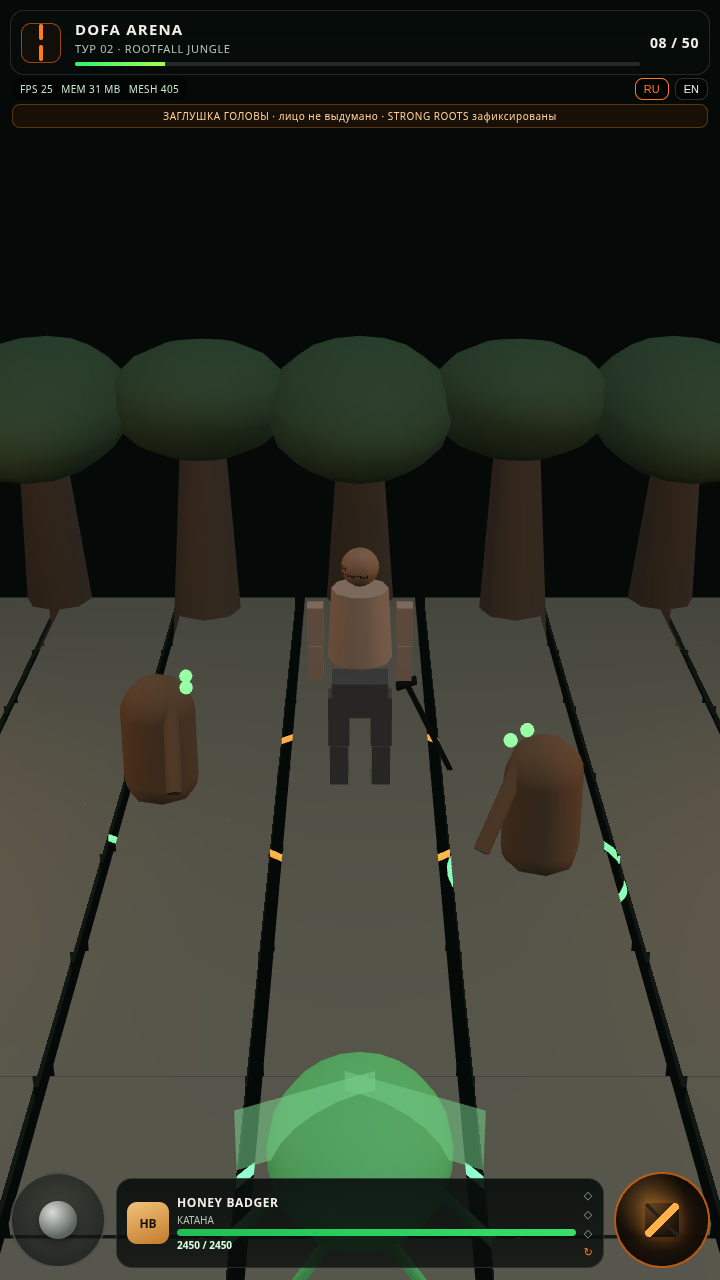
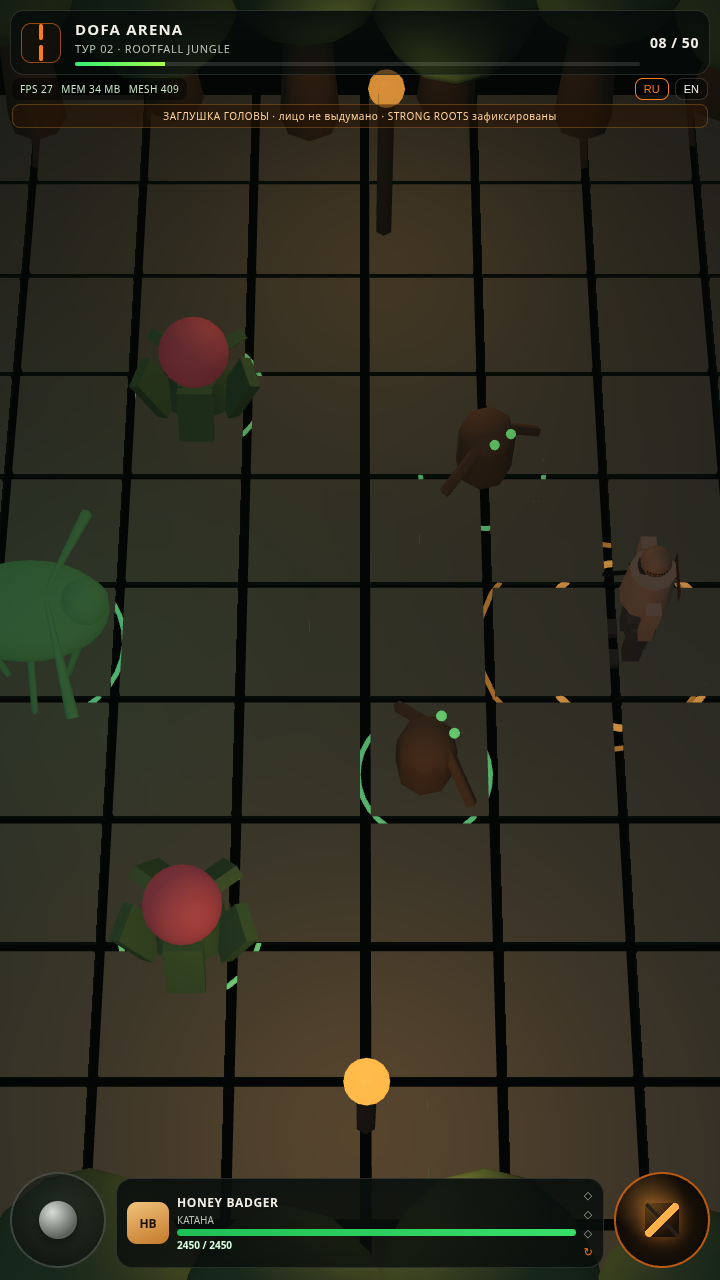
Archero top-down camera + denser Rootfall 08 combat framing
Steepen Babylon action camera to Archero/Unity top-down (hero lower third),
darken room mood, improve insect elite silhouette, and capture deterministic
orbit depth proofs. Document that Higgsfield/Gemini/Nano Banana APIs are not
available in this VM — quality-bar JPEG remains TARGET reference only.

diff --git a/arena3d/src/scene/enemies.js b/arena3d/src/scene/enemies.js
@@ -41,32 +41,51 @@ function createInsectElite(scene, shadow, position) {
     emissive: new Color3(0.05, 0.35, 0.08),
     emissiveIntensity: 0.6,
   });
-  const body = MeshBuilder.CreateSphere("insectBody", { diameter: 0.9, segments: 10 }, scene);
+  const body = MeshBuilder.CreateSphere("insectBody", { diameter: 1.05, segments: 12 }, scene);
   body.parent = root;
-  body.position.y = 0.7;
-  body.scaling = new Vector3(1, 0.7, 1.3);
+  body.position.y = 0.85;
+  body.scaling = new Vector3(0.95, 0.65, 1.45);
   body.material = bodyMat;
   body.castShadow = true;
   if (shadow) shadow.addShadowCaster(body);
 
+  const head = MeshBuilder.CreateSphere("insectHead", { diameter: 0.45, segments: 8 }, scene);
+  head.parent = root;
+  head.position = new Vector3(0, 1.05, 0.55);
+  head.material = bodyMat;
+
+  for (const side of [-1, 1]) {
+    const scythe = MeshBuilder.CreateCylinder(`scythe${side}`, {
+      height: 1.1,
+      diameterTop: 0.04,
+      diameterBottom: 0.12,
+      tessellation: 6,
+    }, scene);
+    scythe.parent = root;
+    scythe.position = new Vector3(side * 0.55, 1.0, 0.35);
+    scythe.rotation.z = side * 1.1;
+    scythe.rotation.x = -0.5;
+    scythe.material = bodyMat;
+  }
+
   for (let i = 0; i < 6; i += 1) {
     const leg = MeshBuilder.CreateCylinder(`insectLeg${i}`, {
-      height: 0.7,
-      diameter: 0.06,
+      height: 0.85,
+      diameter: 0.07,
       tessellation: 5,
     }, scene);
     leg.parent = root;
     const ang = (i / 6) * Math.PI * 2;
-    leg.position = new Vector3(Math.cos(ang) * 0.45, 0.35, Math.sin(ang) * 0.45);
-    leg.rotation.z = Math.cos(ang) * 0.7;
-    leg.rotation.x = Math.sin(ang) * 0.4;
+    leg.position = new Vector3(Math.cos(ang) * 0.5, 0.4, Math.sin(ang) * 0.45);
+    leg.rotation.z = Math.cos(ang) * 0.75;
+    leg.rotation.x = Math.sin(ang) * 0.45;
     leg.material = bodyMat;
   }
 
   for (const side of [-1, 1]) {
-    const wing = MeshBuilder.CreatePlane(`wing${side}`, { width: 0.7, height: 0.35 }, scene);
+    const wing = MeshBuilder.CreatePlane(`wing${side}`, { width: 0.85, height: 0.4 }, scene);
     wing.parent = root;
-    wing.position = new Vector3(side * 0.25, 0.95, -0.1);
+    wing.position = new Vector3(side * 0.28, 1.15, -0.15);
     wing.rotation.y = side * 0.4;
     wing.material = mat(scene, `wingMat${side}`, new Color3(0.4, 0.9, 0.5), {
       emissive: new Color3(0.1, 0.4, 0.15),
@@ -191,12 +210,13 @@ function createWoodHumanoid(scene, shadow, position, id) {
 }
 
 export function createEnemySet(scene, shadow) {
+  // Archero / reference layout: elite top-center, turrets mid flanks, wood units lower flanks.
   const enemies = [
-    createInsectElite(scene, shadow, new Vector3(0, 0, -3.2)),
-    createPlantTurret(scene, shadow, new Vector3(-3.2, 0, -0.6), "plant_turret_l"),
-    createPlantTurret(scene, shadow, new Vector3(3.2, 0, -0.4), "plant_turret_r"),
-    createWoodHumanoid(scene, shadow, new Vector3(-2.4, 0, 1.8), "wood_humanoid_l"),
-    createWoodHumanoid(scene, shadow, new Vector3(2.5, 0, 1.6), "wood_humanoid_r"),
+    createInsectElite(scene, shadow, new Vector3(0, 0, -3.6)),
+    createPlantTurret(scene, shadow, new Vector3(-2.8, 0, -1.1), "plant_turret_l"),
+    createPlantTurret(scene, shadow, new Vector3(2.8, 0, -1.0), "plant_turret_r"),
+    createWoodHumanoid(scene, shadow, new Vector3(-2.2, 0, 0.9), "wood_humanoid_l"),
+    createWoodHumanoid(scene, shadow, new Vector3(2.2, 0, 0.8), "wood_humanoid_r"),
   ];
   return enemies;
 }

diff --git a/arena3d/src/scene/room.js b/arena3d/src/scene/room.js
@@ -31,58 +31,63 @@ function pbr(scene, name, opts = {}) {
 }
 
 export async function buildRootfallRoom(scene) {
-  scene.clearColor = new Color4(0.02, 0.04, 0.03, 1);
-  scene.ambientColor = new Color3(0.08, 0.12, 0.09);
+  scene.clearColor = new Color4(0.01, 0.025, 0.018, 1);
+  scene.ambientColor = new Color3(0.04, 0.07, 0.05);
   scene.fogMode = Scene.FOGMODE_EXP2;
-  scene.fogDensity = 0.035;
-  scene.fogColor = new Color3(0.03, 0.06, 0.04);
+  scene.fogDensity = 0.048;
+  scene.fogColor = new Color3(0.015, 0.04, 0.025);
 
-  const hemi = new HemisphericLight("hemi", new Vector3(0.15, 1, 0.2), scene);
-  hemi.intensity = 0.35;
-  hemi.groundColor = new Color3(0.04, 0.08, 0.05);
+  const hemi = new HemisphericLight("hemi", new Vector3(0.1, 1, 0.15), scene);
+  hemi.intensity = 0.22;
+  hemi.groundColor = new Color3(0.02, 0.05, 0.03);
 
-  const sun = new DirectionalLight("sun", new Vector3(-0.35, -1, 0.25), scene);
-  sun.position = new Vector3(4, 12, -3);
-  sun.intensity = 0.55;
+  const sun = new DirectionalLight("sun", new Vector3(-0.25, -1, 0.35), scene);
+  sun.position = new Vector3(3, 14, -4);
+  sun.intensity = 0.42;
 
-  const torchL = new PointLight("torchL", new Vector3(-5.2, 2.4, 1.5), scene);
-  torchL.diffuse = new Color3(1, 0.45, 0.12);
-  torchL.intensity = 18;
-  torchL.range = 11;
+  const torchL = new PointLight("torchL", new Vector3(-4.6, 2.6, 0.8), scene);
+  torchL.diffuse = new Color3(1, 0.48, 0.12);
+  torchL.intensity = 28;
+  torchL.range = 12;
 
-  const torchR = new PointLight("torchR", new Vector3(5.2, 2.4, 1.2), scene);
+  const torchR = new PointLight("torchR", new Vector3(4.6, 2.6, 0.6), scene);
   torchR.diffuse = new Color3(1, 0.42, 0.1);
-  torchR.intensity = 18;
-  torchR.range = 11;
+  torchR.intensity = 28;
+  torchR.range = 12;
+
+  const venomFill = new PointLight("venomFill", new Vector3(0, 3.2, -2.2), scene);
+  venomFill.diffuse = new Color3(0.2, 1.0, 0.35);
+  venomFill.intensity = 9;
+  venomFill.range = 11;
 
   const shadow = new ShadowGenerator(1024, sun);
   shadow.useBlurExponentialShadowMap = true;
   shadow.blurKernel = 16;
 
   const stone = pbr(scene, "stone", {
-    albedo: new Color3(0.07, 0.09, 0.07),
-    roughness: 0.9,
+    albedo: new Color3(0.045, 0.06, 0.05),
+    roughness: 0.93,
     metallic: 0.02,
   });
   const moss = pbr(scene, "moss", {
-    albedo: new Color3(0.05, 0.16, 0.06),
+    albedo: new Color3(0.04, 0.14, 0.05),
     roughness: 0.95,
-    emissive: new Color3(0.04, 0.45, 0.1),
-    emissiveIntensity: 1.1,
+    emissive: new Color3(0.05, 0.55, 0.12),
+    emissiveIntensity: 1.7,
   });
   const bark = pbr(scene, "bark", {
-    albedo: new Color3(0.12, 0.08, 0.05),
-    roughness: 0.92,
+    albedo: new Color3(0.09, 0.05, 0.03),
+    roughness: 0.94,
   });
   const leaf = pbr(scene, "leaf", {
-    albedo: new Color3(0.05, 0.14, 0.06),
-    roughness: 0.8,
+    albedo: new Color3(0.03, 0.11, 0.045),
+    roughness: 0.85,
   });
   const ember = pbr(scene, "ember", {
-    albedo: new Color3(0.4, 0.12, 0.02),
-    emissive: new Color3(1, 0.35, 0.05),
-    emissiveIntensity: 2.4,
-    roughness: 0.4,
+    albedo: new Color3(0.35, 0.1, 0.02),
+    emissive: new Color3(1, 0.4, 0.05),
+    emissiveIntensity: 3.2,
+    roughness: 0.35,
   });
 
   const root = new TransformNode("rootfallRoom", scene);

diff --git a/arena3d/src/main.js b/arena3d/src/main.js
@@ -40,18 +40,20 @@ const engine = new Engine(canvas, true, {
 engine.setHardwareScalingLevel(Math.min(1, window.devicePixelRatio > 2 ? 1.15 : 1));
 
 const scene = new Scene(engine);
+// Archero / Unity top-down action camera: steep beta, hero in lower third, look toward enemies (-Z).
 const actionCamera = new ArcRotateCamera(
   "actionCam",
-  -Math.PI / 2,
-  1.05,
-  13.2,
-  new Vector3(0, 0.4, 1.4),
+  0,
+  0.4,
+  17.5,
+  new Vector3(0, 0.15, 0.8),
   scene,
 );
-actionCamera.lowerRadiusLimit = 9;
-actionCamera.upperRadiusLimit = 16;
-actionCamera.lowerBetaLimit = 0.85;
-actionCamera.upperBetaLimit = 1.2;
+actionCamera.lowerRadiusLimit = 12;
+actionCamera.upperRadiusLimit = 22;
+actionCamera.lowerBetaLimit = 0.32;
+actionCamera.upperBetaLimit = 0.65;
+actionCamera.fov = 0.68;
 actionCamera.panningSensibility = 0;
 actionCamera.attachControl(canvas, false);
 actionCamera.inputs.removeByType("ArcRotateCameraKeyboardInput");
@@ -61,9 +63,9 @@ actionCamera.inputs.removeByType("ArcRotateCameraMouseWheelInput");
 let orbitMode = false;
 const orbitCamera = new ArcRotateCamera(
   "orbitCam",
-  -Math.PI / 2.4,
-  1.05,
-  16,
+  0.6,
+  0.85,
+  14,
   new Vector3(0, 1, 0),
   scene,
 );
@@ -123,9 +125,9 @@ function toggleOrbit(force) {
   orbitMode = typeof force === "boolean" ? force : !orbitMode;
   if (orbitMode) {
     orbitCamera.setTarget(state.hero?.root.position.clone() ?? Vector3.Zero());
-    orbitCamera.alpha = -Math.PI / 2.6;
-    orbitCamera.beta = 1.15;
-    orbitCamera.radius = 12;
+    orbitCamera.alpha = 0.75;
+    orbitCamera.beta = 0.9;
+    orbitCamera.radius = 11;
     scene.activeCamera = orbitCamera;
     orbitCamera.attachControl(canvas, true);
     hud.pauseOverlay.hidden = true;
@@ -229,6 +231,20 @@ async function boot() {
       return data;
     },
     setOrbit: toggleOrbit,
+    setOrbitPose: ({ alpha = 0.85, beta = 0.95, radius = 12 } = {}) => {
+      if (!orbitMode) toggleOrbit(true);
+      orbitCamera.alpha = alpha;
+      orbitCamera.beta = beta;
+      orbitCamera.radius = radius;
+      if (state.hero?.root) {
+        orbitCamera.setTarget(state.hero.root.position.clone());
+      }
+    },
+    resetHeroPose: () => {
+      if (!state.hero) return;
+      state.hero.setPosition(0, 3.15);
+      state.hero.setFacing(Math.PI);
+    },
   };
 
   engine.runRenderLoop(() => {
@@ -352,9 +368,11 @@ async function boot() {
       }
       state.projectiles = state.projectiles.filter((p) => p.alive);
 
-      actionCamera.setTarget(new Vector3(pos.x, 0.55, pos.z + 1.8));
-      actionCamera.alpha = -Math.PI / 2;
-      actionCamera.radius = 13.2;
+      // Keep Archero framing: camera south of hero, look slightly ahead toward enemy pack.
+      actionCamera.setTarget(new Vector3(pos.x, 0.15, pos.z - 2.6));
+      actionCamera.alpha = 0;
+      actionCamera.beta = 0.4;
+      actionCamera.radius = 17.5;
       updateHud();
     }
 

diff --git a/arena3d/src/scene/hero.js b/arena3d/src/scene/hero.js
@@ -78,16 +78,18 @@ function makeChestTattooTexture(scene) {
 
 export function createHoneyBadger(scene, shadow) {
   const root = new TransformNode("honeyBadger", scene);
-  root.position = new Vector3(0, 0, 2.8);
+  // Archero layout: hero near bottom, facing enemies toward -Z.
+  root.position = new Vector3(0, 0, 3.15);
+  root.rotation.y = Math.PI;
 
   const skin = mat(scene, "hbSkin", new Color3(0.55, 0.4, 0.3), { roughness: 0.7 });
   const pants = mat(scene, "hbPants", new Color3(0.08, 0.09, 0.1), { roughness: 0.85 });
   const shoe = mat(scene, "hbShoe", new Color3(0.05, 0.05, 0.06), { roughness: 0.55, metallic: 0.2 });
   const steel = mat(scene, "hbSteel", new Color3(0.05, 0.05, 0.06), { roughness: 0.28, metallic: 0.95 });
-  const glowEdge = mat(scene, "hbGlow", new Color3(0.2, 0.08, 0.01), {
-    emissive: new Color3(1, 0.45, 0.08),
-    emissiveIntensity: 2.2,
-    roughness: 0.35,
+  const glowEdge = mat(scene, "hbGlow", new Color3(0.25, 0.1, 0.02), {
+    emissive: new Color3(1, 0.55, 0.1),
+    emissiveIntensity: 3.4,
+    roughness: 0.3,
   });
 
   // Rig bones as TransformNodes (animation targets).
@@ -248,15 +250,28 @@ export function createHoneyBadger(scene, shadow) {
   guard.material = steel;
 
   const trail = MeshBuilder.CreateTorus("slashTrail", {
-    diameter: 1.1,
-    thickness: 0.04,
-    tessellation: 20,
+    diameter: 1.4,
+    thickness: 0.06,
+    tessellation: 28,
   }, scene);
   trail.parent = root;
-  trail.position = new Vector3(0, 1.1, 0.4);
+  trail.position = new Vector3(0, 1.05, -0.35);
   trail.rotation.x = Math.PI / 2;
   trail.material = glowEdge;
   trail.isVisible = false;
+
+  const heroRing = MeshBuilder.CreateTorus("heroRing", {
+    diameter: 1.75,
+    thickness: 0.07,
+    tessellation: 40,
+  }, scene);
+  heroRing.parent = root;
+  heroRing.position.y = 0.04;
+  heroRing.material = mat(scene, "heroRingMat", new Color3(0.35, 0.12, 0.02), {
+    emissive: new Color3(1.0, 0.45, 0.08),
+    emissiveIntensity: 2.6,
+    roughness: 0.4,
+  });
 
   // Lightweight Babylon Skeleton metadata for "skinned/rigged" proof in diagnostics.
   const skeleton = new Skeleton("honeyBadgerSkeleton", "hbSkel", scene);

diff --git a/docs/ARENA3D_TRUE3D_SLICE.md b/docs/ARENA3D_TRUE3D_SLICE.md
@@ -2,11 +2,19 @@
 
 See full detail in [`arena3d/README.md`](../arena3d/README.md).
 
+## Camera (owner ask 2026-09-01)
+
+Action camera is **Archero / Unity top-down**: steep `beta ≈ 0.4`, hero in the lower third, look toward the enemy pack. Orbit mode is depth-proof only.
+
+## Art pipeline note (Higgsfield / Gemini / Nano Banana / Codex / Grok)
+
+This cloud VM has **no** Higgsfield / Gemini / Nano Banana / Grok image API credentials. Those tools belong in the offline art pipeline for authored glTF/PBR packs that can approach the quality-bar TARGET. This spike keeps **real Babylon meshes** and treats the quality-bar JPEG as TARGET reference only — never as a scene plate.
+
 ## In-engine proof (not the concept JPEG)
 
 | Capture | Path |
 | --- | --- |
-| Action camera | [`previews/arena3d/rootfall-08-action-camera.png`](previews/arena3d/rootfall-08-action-camera.png) |
+| Action camera (Archero top-down) | [`previews/arena3d/rootfall-08-action-camera.png`](previews/arena3d/rootfall-08-action-camera.png) |
 | Orbit depth proof | [`previews/arena3d/rootfall-08-orbit-depth-proof.png`](previews/arena3d/rootfall-08-orbit-depth-proof.png) |
 | Capture report | [`previews/arena3d/capture-report.json`](previews/arena3d/capture-report.json) |
 
@@ -16,7 +24,7 @@ TARGET quality bar (reference only, never scene texture): [`references/quality-b
 
 | Bucket | Items |
 | --- | --- |
-| Ready | Parallel `/arena3d/` Babylon path; HUD canon names; real meshes + glTF floor; HB rig + katana; 5 enemies; telegraph; touch+attack; RU/EN; tests; orbit proof captures |
-| Partial | ML visual parity; full skin weights; SW caching of 3D bundle; mobile FPS tuning (SwiftShader capture ~20–28 FPS / ~35 MB heap) |
-| Not started | Tours 03–06 3D; 50-room 3D route; other heroes; 3D audio/abilities; final engine lock |
-| Blocked | Exact HB face scan; stop-to-auto-attack [TBD]; token/wallet/reward authority (out of scope) |
+| Ready | Parallel `/arena3d/` Babylon path; Archero top-down camera; HUD canon names; real meshes + glTF floor; HB rig + katana; 5 enemies with telegraphs; touch move + attack; RU/EN; tests; orbit proof captures |
+| Partial | Visual parity vs quality-bar TARGET (procedural PBR ≠ authored ML/Higgsfield art); full skin weights; SW caching of 3D bundle; mobile FPS tuning |
+| Not started | Higgsfield/Gemini authored hero/enemy/room glTF packs; Tours 03–06 3D; full 50-room 3D route; other heroes; 3D audio/abilities; final engine lock |
+| Blocked | Exact HB face scan (not invented); stop-to-auto-attack [TBD]; token/wallet authority; cloud AI art APIs not configured in this agent VM |
